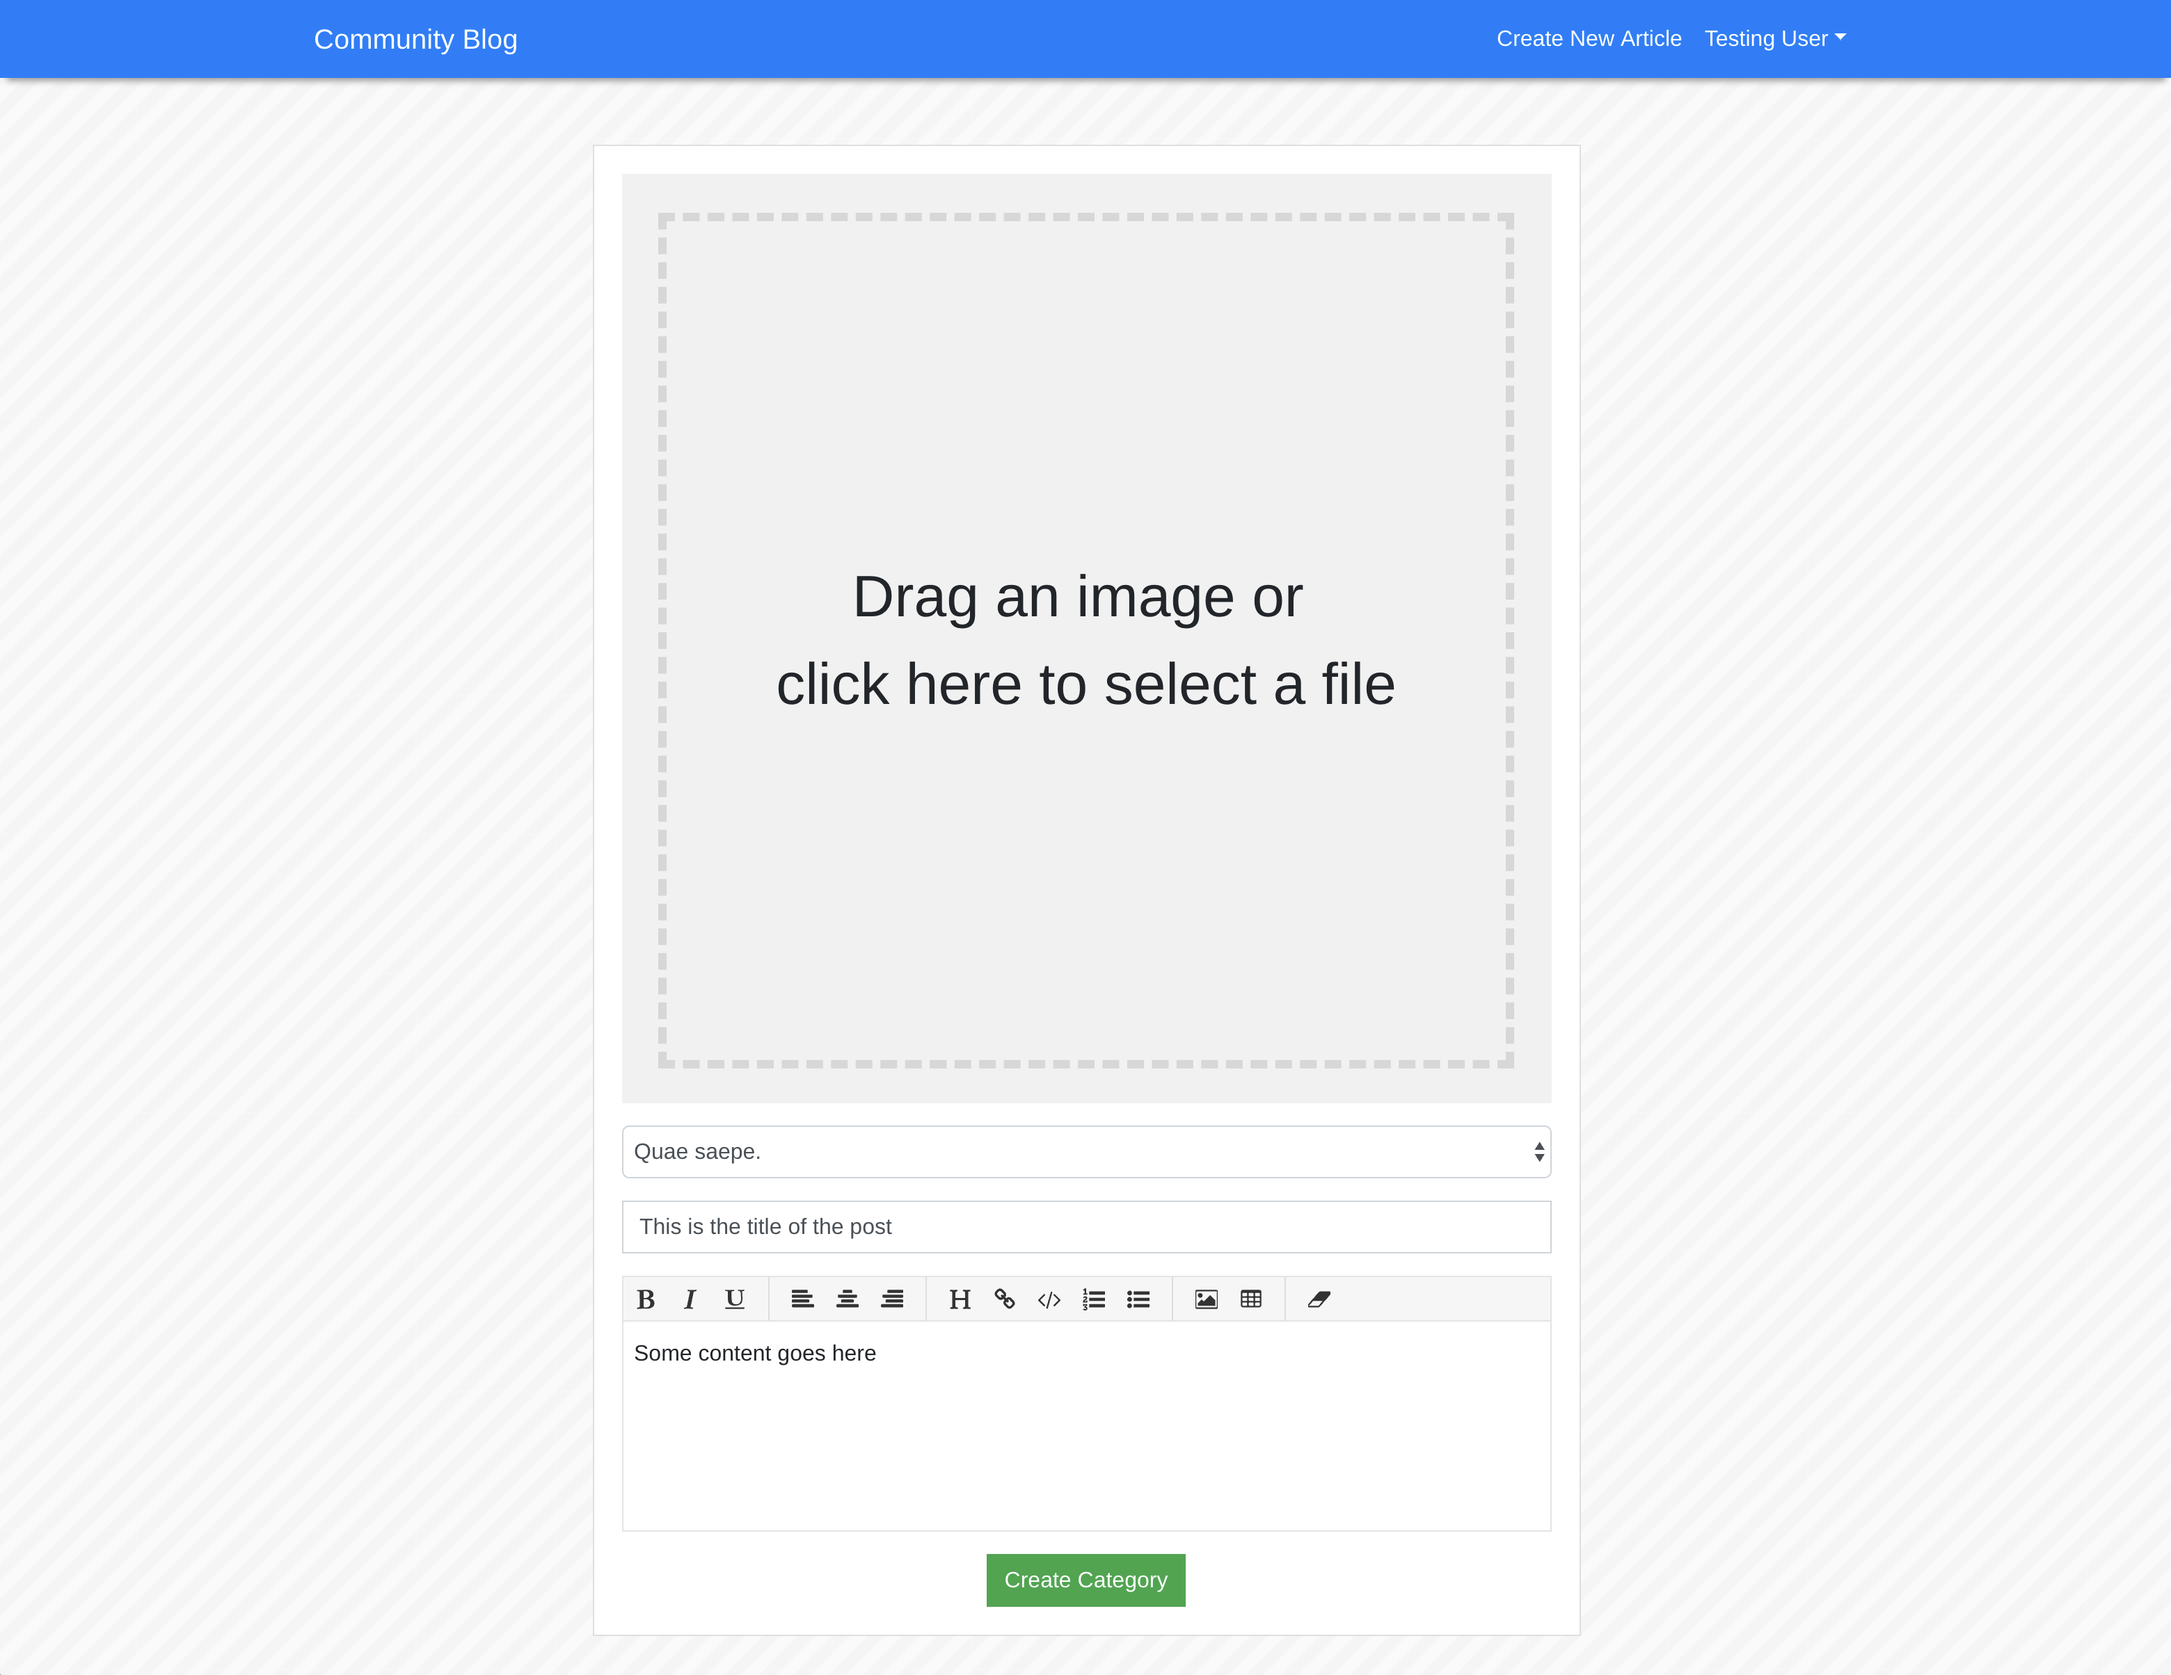
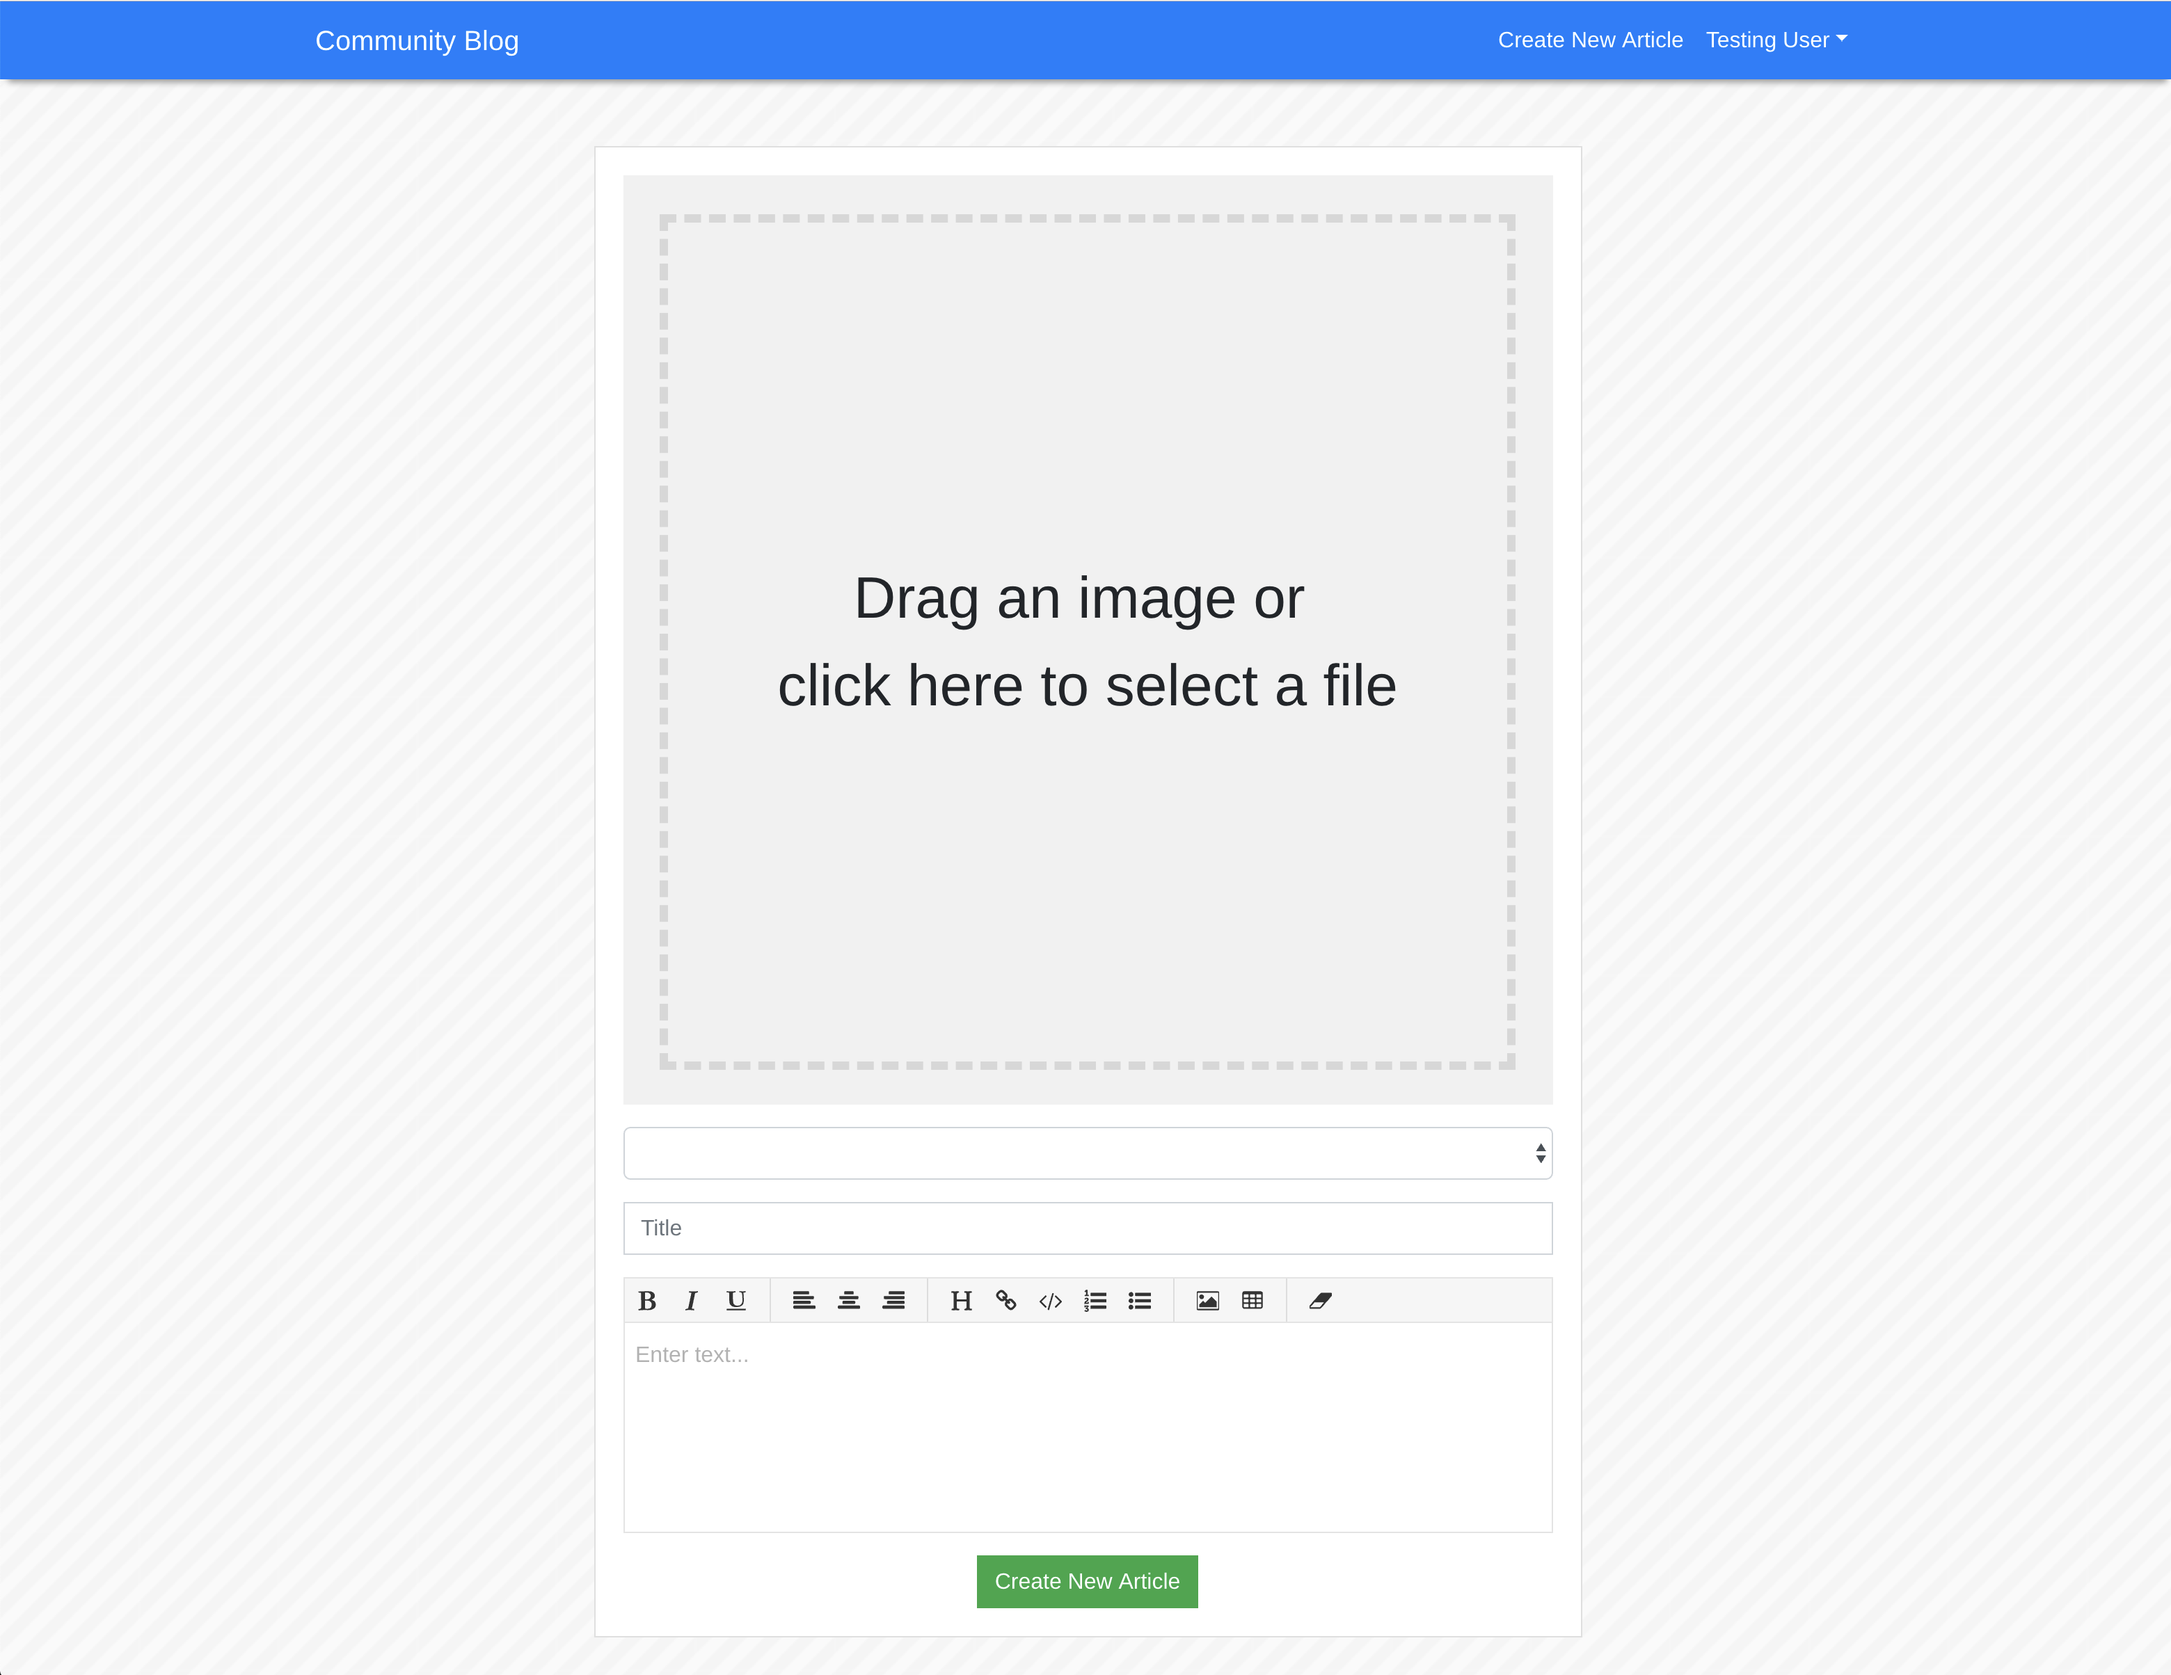
fixed typos

diff --git a/src/views/CreateArticle.vue b/src/views/CreateArticle.vue
@@ -33,7 +33,7 @@
                 @click="createArticle()"
               >
                 <i v-if="loading" class="fas fa-spin fa-spinner"></i>
-                {{ loading ? '' : 'Create Category' }}
+                {{ loading ? '' : 'Create New Article' }}
               </button>
             </div>
           </div>
